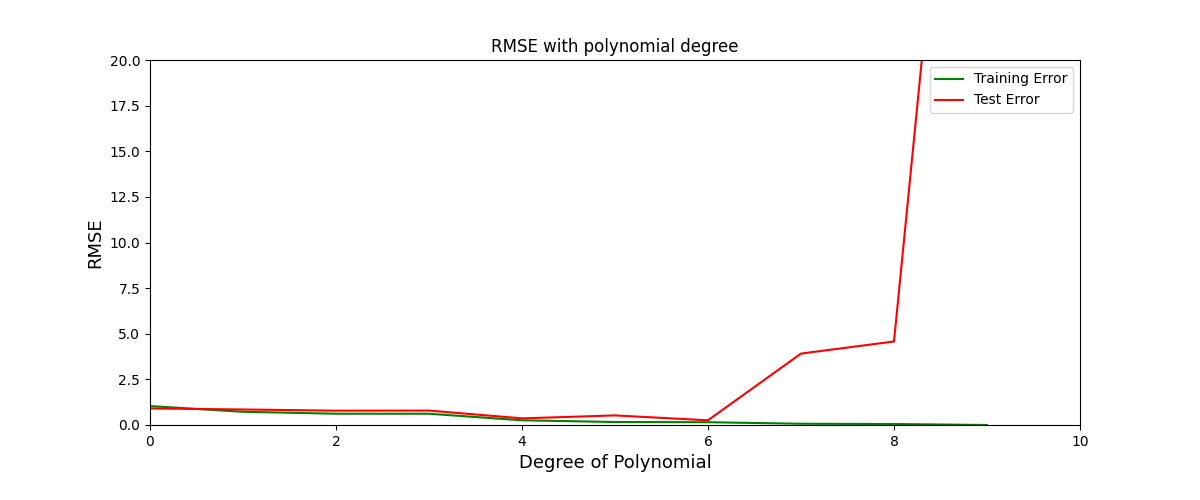
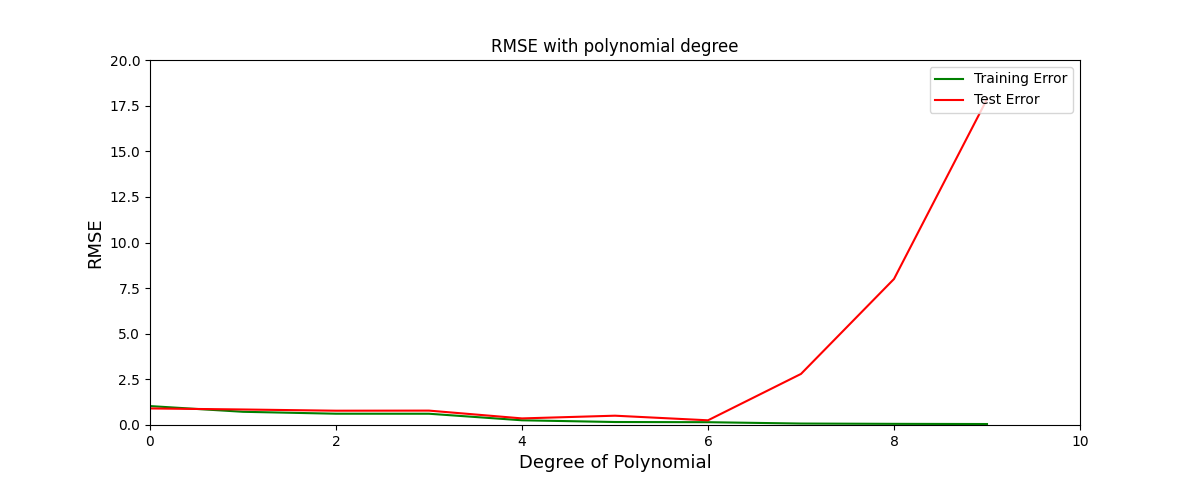
polynomial MAP

diff --git a/polynomial_map.py b/polynomial_map.py
@@ -1,0 +1,80 @@
+# getting the parameters of linear regression using MLE
+# the expected param values θ = [2.1, -0.5, 1.9, 0.1, -1.5]
+# yₙ = − sin(xₙ / 5) + cos(xₙ) + ϵ, ϵ∼(N|0,σ²) for σ=0.2
+import math
+
+import numpy as np
+
+import plot_data
+
+np.random.seed(0)
+
+
+def generate_data() -> tuple[np.ndarray]:
+    X = np.array([-4.5, -2.5, -0.5, 0, 1, 1.5, 3.6, 4, 4.25, 4.75])
+    #X = np.linspace(-5, 5, num=10)
+    gaussian_noise = np.random.normal(0, 0.2, size=(X.shape[0],))
+    Y = np.array([-math.sin(x / 5) + math.cos(x) for x in X]) + gaussian_noise
+
+    X_test = np.linspace(-5, 5, num=200)
+    X_test = X_test[~np.isin(X_test, X)]
+    test_gaussian_noise = np.random.normal(0, 0.2, size=(X_test.shape[0],))
+    Y_test = (
+        np.array([-math.sin(x / 5) + math.cos(x) for x in X_test]) + test_gaussian_noise
+    )
+    train_data = (X, Y)
+    test_data = (X_test, Y_test)
+    return train_data, test_data
+
+
+def get_polynomial_input(X: np.ndarray, degree: int) -> np.ndarray:
+    return np.array([[x**d for d in range(degree + 1)] for x in X])
+
+
+def compute_parameters_and_predict(
+    X: np.ndarray, Y: np.ndarray, degree: int
+) -> np.ndarray:
+    # computes the params using MAP
+    phi_x = get_polynomial_input(X, degree)
+    phi_x_transpose = np.transpose(phi_x)
+    identity_matrix = np.identity(degree + 1)
+    theta = np.dot(
+        np.linalg.inv(np.dot(phi_x_transpose, phi_x) + 0.2**2 * identity_matrix), np.dot(phi_x_transpose, Y)
+    )
+    prediction = np.dot(phi_x, theta)
+    return theta, prediction
+
+
+def calculate_rmse(Y: np.ndarray, prediction: np.ndarray) -> np.ndarray:
+    # computes the rmse between the actual and the predicted values
+    squared_distance = (Y - prediction) ** 2
+    return math.sqrt(squared_distance.sum() / len(Y))
+
+
+def main() -> None:
+    train_data, test_data = generate_data()
+    X, Y = train_data
+    X_test, Y_test = test_data
+    train_rmse = []
+    test_rmse = []
+    for degree in range(10):
+        theta, train_prediction = compute_parameters_and_predict(X, Y, degree)
+        train_rmse.append(
+            calculate_rmse(Y, np.dot(get_polynomial_input(X, degree), theta))
+        )
+        test_rmse.append(
+            calculate_rmse(Y_test, np.dot(get_polynomial_input(X_test, degree), theta))
+        )
+        plot_data.plot_actual_and_predicted(
+            X,
+            Y,
+            train_prediction,
+            f"plots/polynomial_map_{degree}.png",
+            f"MAP for polynomial with D={degree}",
+        )
+    
+    plot_data.plot_rmse(train_rmse, test_rmse)
+
+
+if __name__ == "__main__":
+    main()
